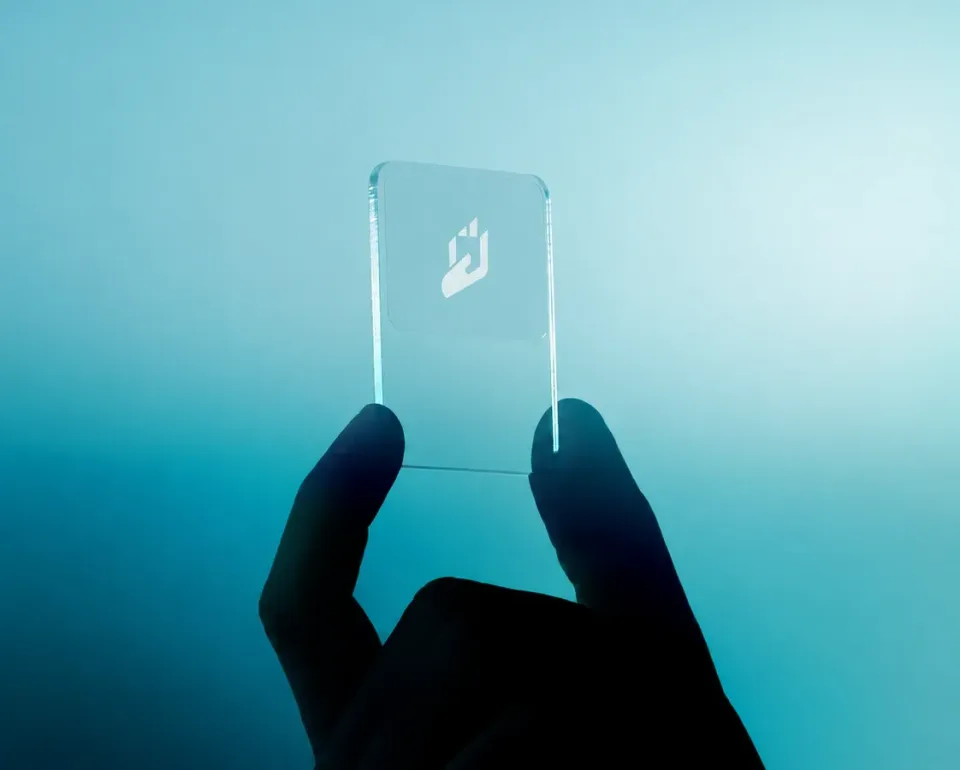
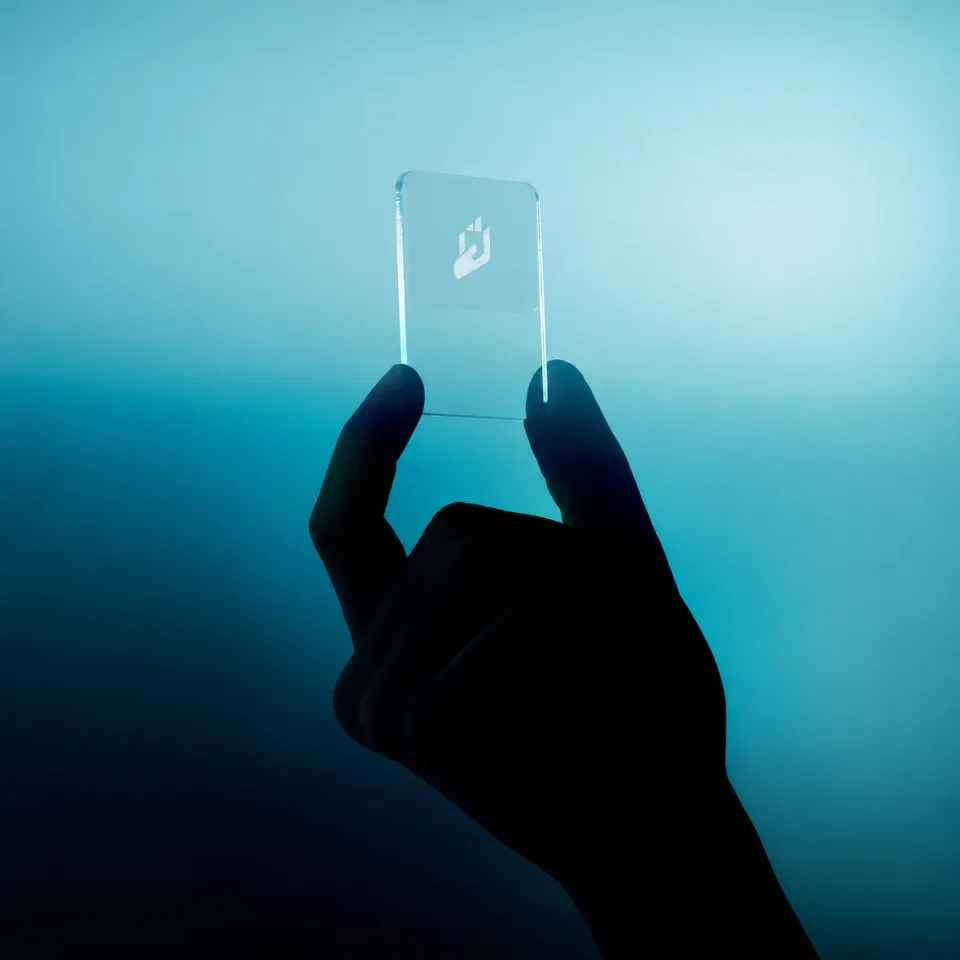
Update the BETACH card image (square version)
Claude-Session: https://claude.ai/code/session_01NeeFoS4ySEpbw6FEJtw8aX

diff --git a/src/config/site.js b/src/config/site.js
@@ -13,7 +13,7 @@ export const STATIC_PATHS = ['/work/betach', '/work/kriya-setu', '/work/rucaa']
 
 export const seo = {
   '/': { title: 'Moreward | Direction, made visible.', description: 'Independent creative and technology studio. Brand, campaigns, outdoor and broadcast media, and the websites, CRMs and automations behind them.', image: '/social-card.png' },
-  '/work': { title: 'Work | Moreward', description: 'Brand identities for BETACH Consulting Services, Kriya Setu and Rucaa, by Moreward.', image: '/images/betach-plate-1122.webp' },
+  '/work': { title: 'Work | Moreward', description: 'Brand identities for BETACH Consulting Services, Kriya Setu and Rucaa, by Moreward.', image: '/images/betach-plate-1254.webp' },
   '/capabilities': { title: 'Capabilities | Moreward', description: 'Creative & Marketing, Advertising & Media, and Technology & Automation, under one roof and working from the same brief.' },
   '/capabilities/creative-marketing': { title: 'Creative & Marketing | Moreward', description: 'Positioning, brand identity, advertising design, campaigns, creator marketing and content from Moreward.' },
   '/capabilities/advertising-media': { title: 'Advertising & Media | Moreward', description: 'Outdoor, billboard, metro, television, radio and print advertising, with media planning, from Moreward.' },

diff --git a/src/baseline/data.js b/src/baseline/data.js
@@ -25,7 +25,7 @@ export const projects = [
   {
     number: '01', slug: 'betach', title: 'BETACH', client: true, href: '/work/betach',
     summary: 'Protection, built on trust.',
-    image: image('betach-plate', 1122, 900), imageAlt: 'A hand holding a clear acrylic plate etched with the BETACH symbol, against a teal gradient',
+    image: image('betach-plate', 1254, 1254), imageAlt: 'A hand holding a clear acrylic plate etched with the BETACH symbol, against a teal gradient',
   },
   {
     number: '02', slug: 'kriya-setu', title: 'Kriya Setu', client: true, href: '/work/kriya-setu',
